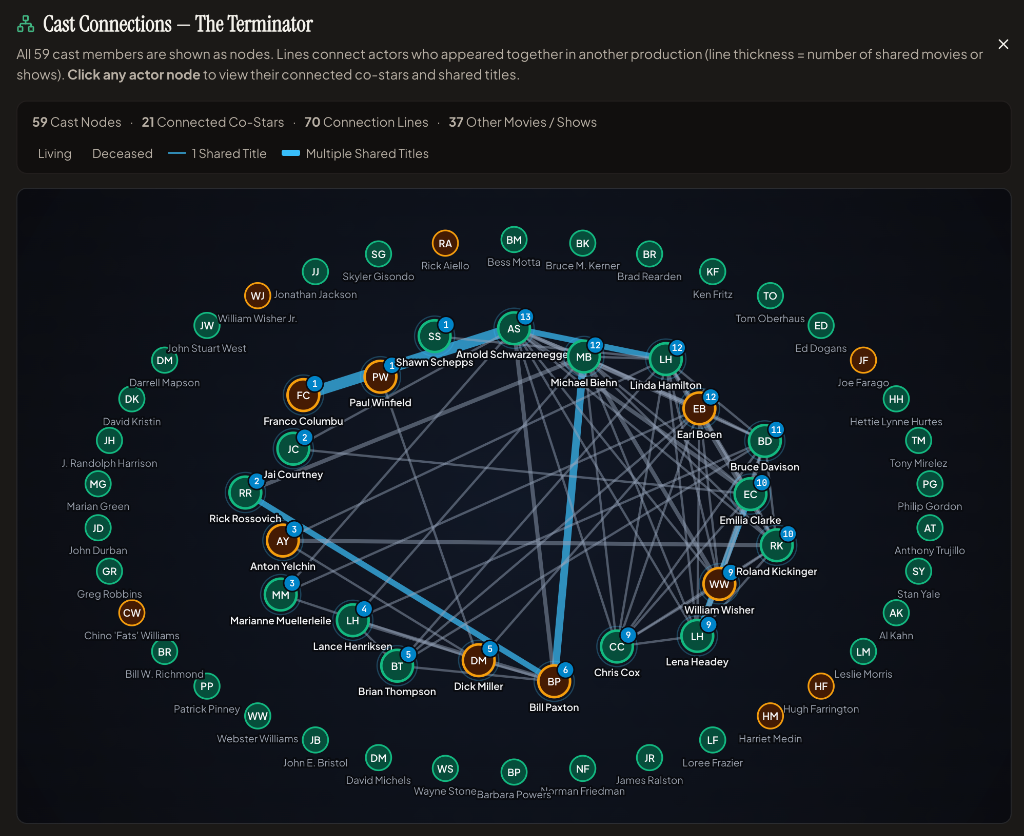
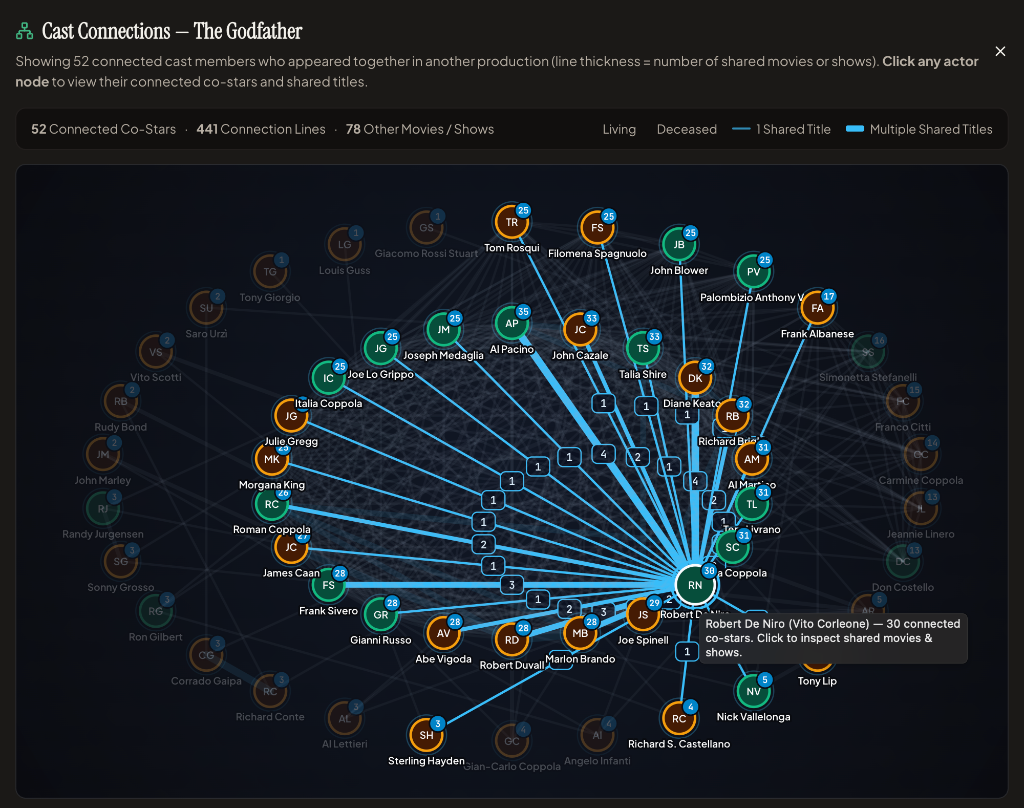
Replace map.png and mapdetails.png in README

diff --git a/README.md b/README.md
@@ -6,7 +6,7 @@
 <p align="center">
   <img src="./docs/map.png" alt="Cast Connections Network" width="56%" />
   &nbsp;&nbsp;
-  <img src="./docs/mapdetail.png" alt="Actor Connections Detail" width="36%" />
+  <img src="./docs/mapdetails.png" alt="Actor Connections Detail" width="36%" />
 </p>
 
 **Dead or Alive** is a responsive web application built with **Vite + React + TypeScript** that lets you search for any movie or television series and determines how many of its credited cast members are still alive at the exact moment your query is evaluated.
